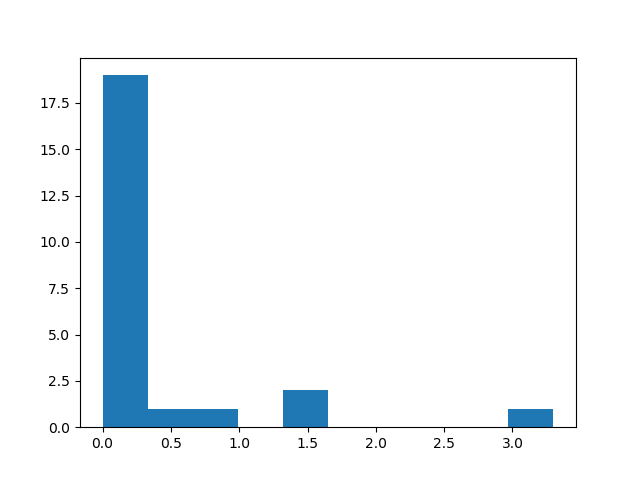
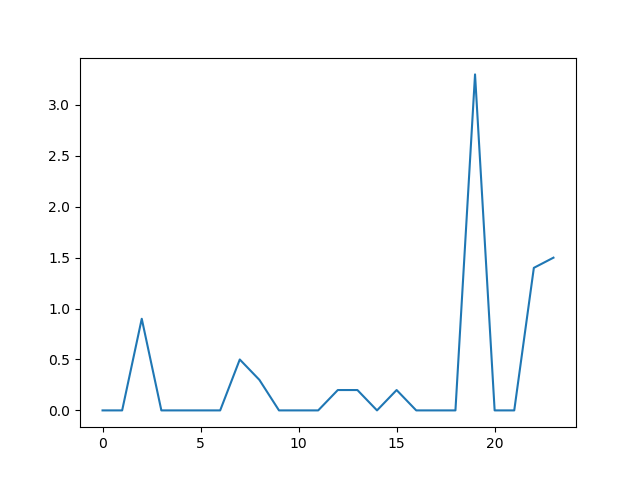
Update

diff --git a/Python/matplot/korean_weather.py b/Python/matplot/korean_weather.py
@@ -20,6 +20,9 @@ import matplotlib as mpl
 mpl.use("Agg")
 import matplotlib.pyplot as plt
 
-plt.hist(seoul)
+labels = list(range(len(seoul)))
+
+plt.plot(labels, seoul)
+
 plt.savefig("./result_pic/seoul.png")
 plt.close()
